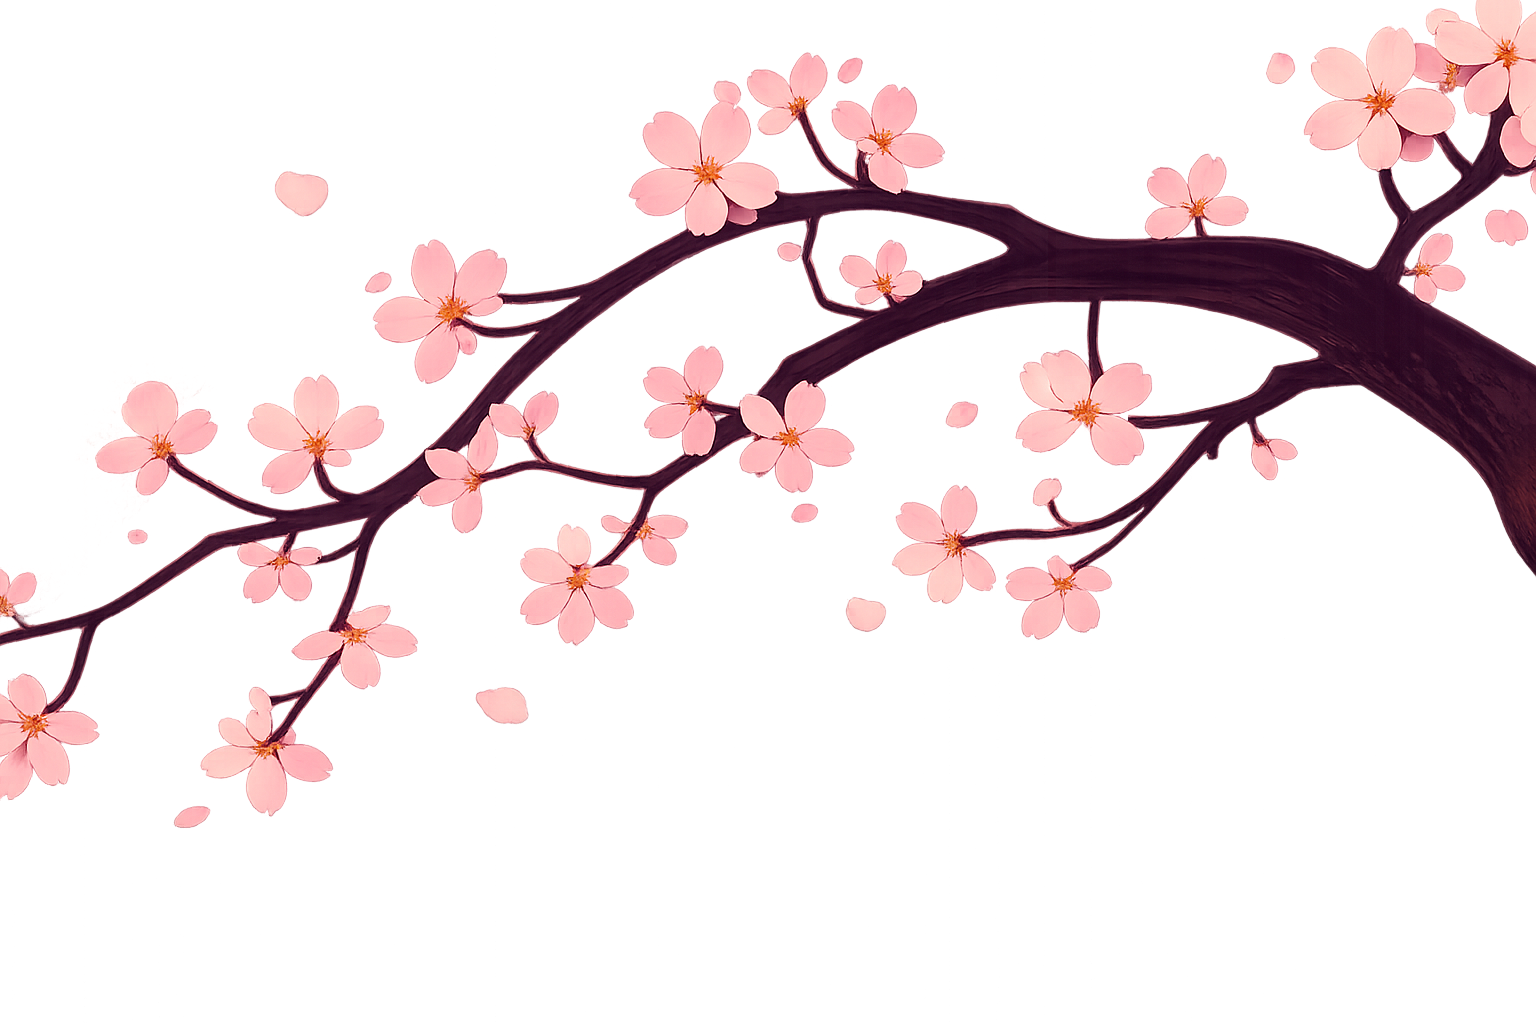
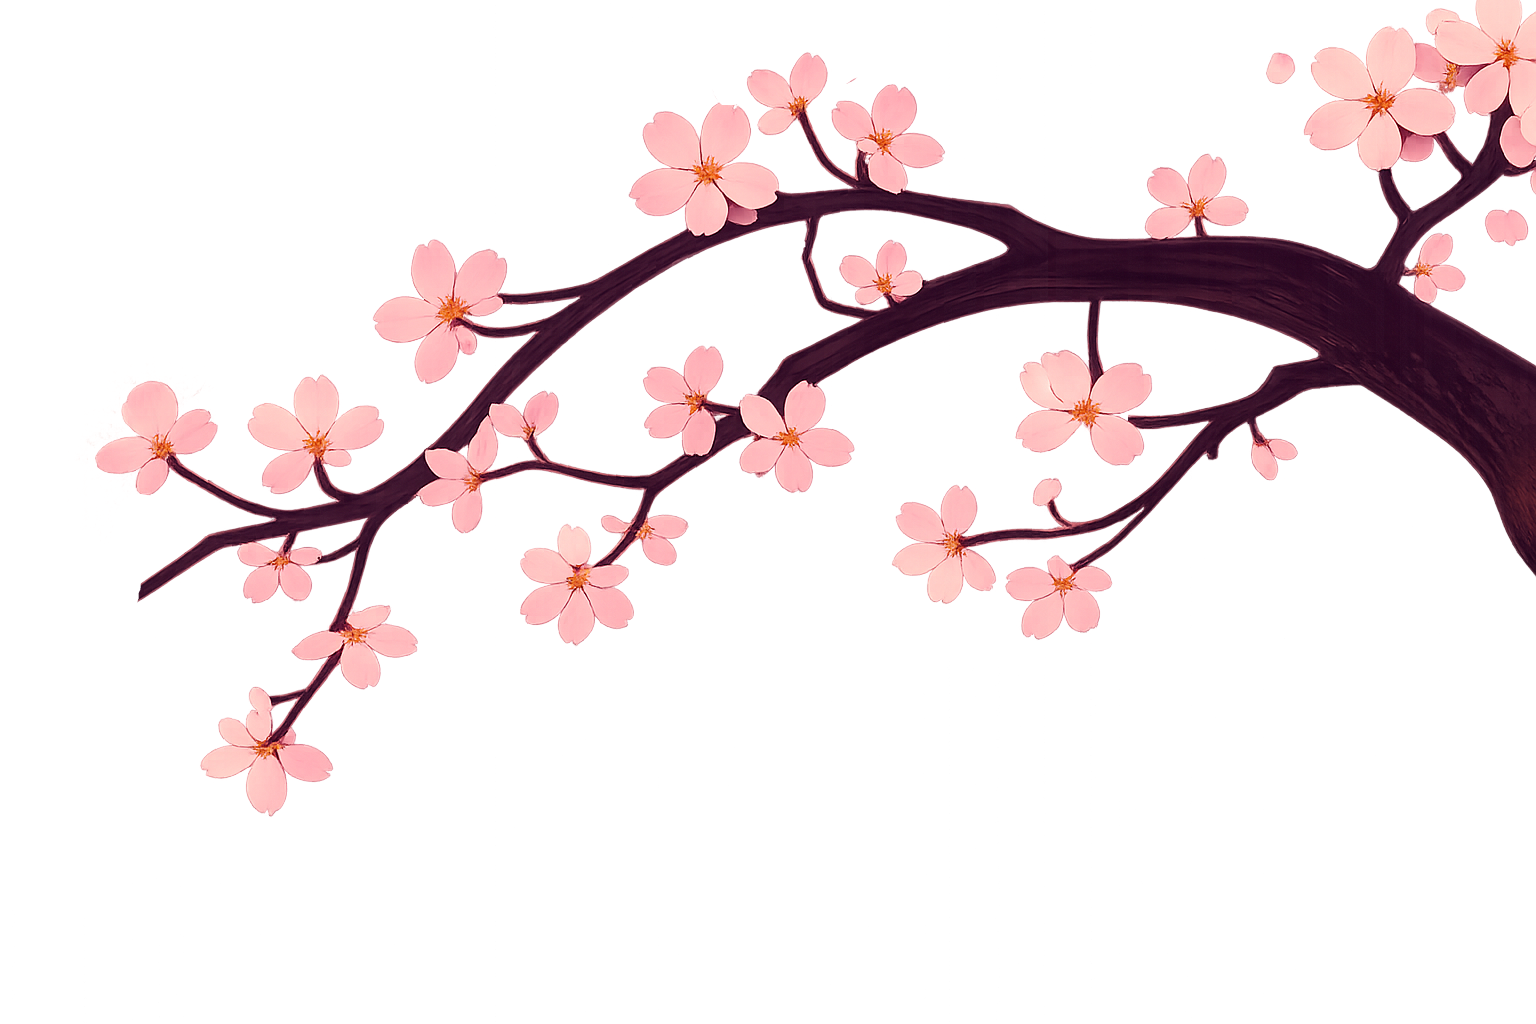
added wind animation

diff --git a/src/pages/hero.tsx b/src/pages/hero.tsx
@@ -4,6 +4,7 @@ import gsap from "gsap";
 import ScrollTrigger from "gsap/ScrollTrigger";
 import { useGSAP } from "@gsap/react";
 import Navbar from "./Navbar/navbar";
+import twentySix from "../assets/26.png";
 
 gsap.registerPlugin(ScrollTrigger);
 
@@ -39,6 +40,7 @@ const Hero = () => {
     });
   }, []);
 
+
   return (
     <>
       <div
@@ -48,6 +50,14 @@ const Hero = () => {
       />
 
       <Navbar ref={navbarRef} />
+      <div className="left">
+
+        <img src={twentySix} alt="26" className="w-96 absolute left-30 bottom-10" />
+        <svg className="absolute left-15 bottom-30 text-white font-bold" width="525" height="92" viewBox="0 0 600 92" fill="none" xmlns="http://www.w3.org/2000/svg">
+          <path d="M20.6082 54.5284V69.8884H51.2002C51.2002 74.2404 51.2002 81.4084 51.2002 85.7604C34.8162 87.1684 18.4322 88.5764 2.04823 89.9844V69.8884H3.84023C3.58423 65.2804 3.32823 60.6724 3.20023 56.0644C2.04823 56.1924 1.02423 56.3204 0.000226736 56.3204V36.2244H2.17623C1.66423 24.3204 1.02423 12.5444 0.384227 0.640442H20.6082V36.2244H49.6642C49.6642 40.5764 49.6642 47.7444 49.6642 52.0964C39.9362 52.8644 30.2082 53.7604 20.6082 54.5284ZM22.1442 0.512444H54.2722C54.2722 4.99244 54.2722 12.0324 54.2722 16.3844C43.5202 17.9204 32.7682 19.3284 22.1442 20.7364V0.512444ZM72.9132 36.6084H110.289C110.289 40.7044 110.289 47.3604 110.289 51.4564C97.8732 52.8644 85.3292 54.1444 72.9132 55.5524V36.6084ZM185.643 0.512444C185.643 4.99244 185.643 12.0324 185.643 16.3844C174.891 17.9204 164.139 19.3284 153.515 20.7364V0.512444H185.643ZM184.747 70.1444C185.515 70.1444 186.283 70.0164 186.923 70.0164C187.307 74.3684 187.691 81.5364 187.947 85.8884C169.259 88.4484 150.443 90.2404 131.499 91.2644L132.011 71.0404C143.915 71.4244 155.819 71.2964 167.723 70.9124C167.723 64.6404 167.595 58.3684 167.339 52.0964C154.923 53.3764 142.507 54.4004 129.963 54.7844L130.347 37.7604C131.243 37.7604 132.139 37.7604 133.035 37.7604C132.011 25.2164 131.499 12.6724 131.499 0.000442505L151.595 1.66444C150.571 13.6964 150.059 25.7284 149.931 37.7604C155.563 37.6324 161.195 37.5044 166.699 37.2484C166.699 36.3524 166.699 35.4564 166.571 34.5604L186.667 35.0724C186.667 35.3284 186.667 35.7124 186.667 35.9684C187.307 35.8404 188.075 35.8404 188.715 35.8404C188.971 39.5524 189.611 45.5684 189.867 49.2804C188.715 49.4084 187.435 49.5364 186.155 49.7924C185.771 56.5764 185.387 63.3604 184.747 70.1444ZM268.923 1.40844V36.2244H270.843C270.843 40.5764 270.843 47.7444 270.843 52.0964C270.203 52.2244 269.563 52.3524 268.923 52.3524V89.9844C264.571 89.9844 257.403 89.9844 253.051 89.9844C252.923 88.7044 252.923 87.5524 252.923 86.4004C238.715 87.5524 224.635 88.8324 210.555 89.9844V69.8884H212.347C211.195 46.8484 210.043 23.6804 209.019 0.640442H229.115V69.8884H252.027C251.771 65.0244 251.643 60.0324 251.387 55.1684C248.827 55.5524 246.267 55.9364 243.707 56.3204V36.2244H250.491C249.851 24.5764 249.339 13.0564 248.827 1.40844H268.923ZM351.863 0.256439L371.959 0.896439L369.143 89.6004C364.663 89.4724 357.623 89.2164 353.271 89.0884C352.887 66.8164 352.503 44.6724 352.247 22.4004C348.535 22.6564 344.823 23.0404 341.111 23.1684C340.855 27.5204 340.471 31.8724 340.343 36.2244C342.519 35.8404 344.695 35.4564 346.871 34.8164C347.767 38.5284 349.303 44.2884 350.199 48.0004C346.871 49.1524 343.543 50.1764 340.087 51.0724C340.087 56.4484 340.215 61.9524 340.471 67.3284C336.119 67.5844 329.079 67.9684 324.727 68.2244C324.087 63.4884 323.703 58.7524 323.319 54.1444C320.503 54.4004 317.559 54.6564 314.615 54.6564L315.767 37.6324C317.943 37.7604 320.247 37.8884 322.551 37.8884C322.423 33.2804 322.295 28.6724 322.423 24.1924C318.583 24.3204 314.871 24.3204 311.159 24.4484V89.9844C306.679 89.9844 299.639 89.9844 295.287 89.9844C293.879 60.1604 292.471 30.3364 291.063 0.640442H311.159V5.12044C315.127 5.37644 319.095 5.50444 323.063 5.50444C323.191 3.84044 323.319 2.04844 323.447 0.384438L343.415 3.20044C343.287 3.96844 343.159 4.86444 343.031 5.63244C345.975 5.63244 349.047 5.50444 351.991 5.50444C351.991 3.71244 351.863 2.04844 351.863 0.256439ZM453.038 0.256439L473.134 0.896439L470.318 89.6004C465.838 89.4724 458.798 89.2164 454.446 89.0884C454.062 66.8164 453.678 44.6724 453.422 22.4004C449.71 22.6564 445.998 23.0404 442.286 23.1684C442.03 27.5204 441.646 31.8724 441.518 36.2244C443.694 35.8404 445.87 35.4564 448.046 34.8164C448.942 38.5284 450.478 44.2884 451.374 48.0004C448.046 49.1524 444.718 50.1764 441.262 51.0724C441.262 56.4484 441.39 61.9524 441.646 67.3284C437.294 67.5844 430.254 67.9684 425.902 68.2244C425.262 63.4884 424.878 58.7524 424.494 54.1444C421.678 54.4004 418.734 54.6564 415.79 54.6564L416.942 37.6324C419.118 37.7604 421.422 37.8884 423.726 37.8884C423.598 33.2804 423.47 28.6724 423.598 24.1924C419.758 24.3204 416.046 24.3204 412.334 24.4484V89.9844C407.854 89.9844 400.814 89.9844 396.462 89.9844C395.054 60.1604 393.646 30.3364 392.238 0.640442H412.334V5.12044C416.302 5.37644 420.27 5.50444 424.238 5.50444C424.366 3.84044 424.494 2.04844 424.622 0.384438L444.59 3.20044C444.462 3.96844 444.334 4.86444 444.206 5.63244C447.15 5.63244 450.222 5.50444 453.166 5.50444C453.166 3.71244 453.038 2.04844 453.038 0.256439ZM522.469 16.3844C520.549 16.7684 518.629 17.0244 516.709 17.2804V70.6564H521.189C521.189 75.0084 521.189 82.1764 521.189 86.5284C519.653 86.7844 518.117 87.0404 516.709 87.2964V89.9844C512.229 89.9844 505.189 89.9844 500.837 89.9844C500.837 89.8564 500.837 89.8564 500.837 89.8564C498.789 90.1124 496.741 90.4964 494.821 90.7524V70.6564H499.813C499.045 53.7604 498.277 36.8644 497.381 19.9684C495.845 20.2244 494.181 20.4804 492.645 20.7364V0.512444H522.469C522.469 4.99244 522.469 12.0324 522.469 16.3844ZM599.828 0.512444C599.828 4.99244 599.828 12.0324 599.828 16.3844C588.948 17.1524 578.068 17.9204 567.188 18.6884H578.964V89.9844C574.484 89.9844 567.444 89.9844 563.092 89.9844C561.684 66.3044 560.276 42.7524 558.868 19.2004C551.828 19.7124 544.788 20.2244 537.876 20.7364V0.512444H599.828Z" fill="white"/>
+          </svg>
+
+      </div>
 
       <div className="min-h-screen bg-cover bg-center bg-no-repeat" style={{ backgroundImage: "url('/background.webp')" }} />
       <div className="min-h-screen bg-cover bg-center bg-no-repeat" style={{ backgroundImage: "url('/background.webp')" }} />

diff --git a/src/pages/Navbar/navbar.css b/src/pages/Navbar/navbar.css
@@ -5,54 +5,38 @@
     top: 0px;
     right: -10px;
     z-index: 3;
+
     transform-origin: 100% 0%;
-    animation: windWobble 6s ease-in-out infinite;
+    animation: branchWind 10s ease-in-out infinite;
 }
+
 
 .lantern {
     position: absolute;
     width: 213px;
     height: 320px;
     z-index: 3;
-    transform-origin: 50% 50%;
+
+    transform-origin: 50% 0%;
+
+    animation:
+        swing 7s cubic-bezier(.4, 0, .2, 1) infinite,
+        flicker 2.5s ease-in-out infinite;
+
     transition: transform 300ms;
-    animation: windWobble 6s ease-in-out infinite;
-    animation: flicker 2000ms ease-in-out infinite forwards;
 }
 
 .lantern:hover {
     transform: scale(1.05);
     filter:
-        drop-shadow(0 0 18px rgba(255, 118, 90, 0.7)) drop-shadow(0 0 35px rgba(255, 135, 70, 0.4));
+        drop-shadow(0 0 18px rgba(255, 118, 90, 0.7))
+        drop-shadow(0 0 35px rgba(255, 135, 70, 0.4));
 }
 
-@keyframes flicker {
-    0% {
-        filter:
-        drop-shadow(0 0 18px rgba(255, 190, 90, 0.2)) drop-shadow(0 0 35px rgba(255, 95, 70, 0.1));
-    }
-    50% {
-        filter:
-        drop-shadow(0 0 18px rgba(255, 134, 90, 0.7)) drop-shadow(0 0 35px rgba(255, 160, 70, 0.4));
-    }
-    100% {
-        filter:
-        drop-shadow(0 0 18px rgba(255, 190, 90, 0.2)) drop-shadow(0 0 35px rgba(255, 160, 70, 0.1));
-    }
-}
-
-/* .lanterns>a>span {
-    text-shadow: 1px 1px 2px #fff;
-    font-family: 'Cinzel', serif;
-    writing-mode: vertical-lr;
-    text-orientation: upright;
-    position: absolute;
-    font-weight: bold;
-    color: #8B0000;
-    font-size: 21px;
-    z-index: 4;
-} */
-
+.l1 { animation-delay: -1s, -0.3s; }
+.l2 { animation-delay: -2.3s, -1s; }
+.l3 { animation-delay: -0.6s, -0.7s; }
+.l4 { animation-delay: -1.7s, -1.2s; }
 
 .s1 {
     top: 390px;
@@ -76,7 +60,7 @@
     right: 400px;
 }
 
-.l3{
+.l3 {
     width: 300px;
     height: 420px;
     top: 175px;
@@ -91,24 +75,57 @@
 }
 
 
-@keyframes windWobble {
+@keyframes branchWind {
+    0%   { transform: rotate(0deg); }
+    30%  { transform: rotate(0.6deg); }
+    60%  { transform: rotate(-0.4deg); }
+    100% { transform: rotate(0deg); }
+}
+
+@keyframes swing {
     0% {
-        transform: translate3d(0, 0, 0) rotate(0deg);
+        transform: rotate(0deg) translateY(0);
     }
 
-    25% {
-        transform: translate3d(0.1%, -0.15%, 0) rotate(0.5deg);
+    20% {
+        transform: rotate(1.2deg) translateY(2px);
     }
 
     50% {
-        transform: translate3d(-0.05%, 0.15%, 0) rotate(-0.25deg);
+        transform: rotate(-1.6deg) translateY(-2px);
     }
 
-    75% {
-        transform: translate3d(0.1%, -0.15%, 0) rotate(0.5deg);
+    80% {
+        transform: rotate(1deg) translateY(1px);
     }
 
     100% {
-        transform: translate3d(0, 0, 0) rotate(0deg);
+        transform: rotate(0deg) translateY(0);
     }
+}
+
+@keyframes flicker {
+    0%, 100% {
+        filter:
+            drop-shadow(0 0 14px rgba(255,160,90,0.3))
+            drop-shadow(0 0 28px rgba(255,120,70,0.2));
+    }
+
+    25% {
+        filter:
+            drop-shadow(0 0 20px rgba(255,140,90,0.8))
+            drop-shadow(0 0 40px rgba(255,160,70,0.45));}
+
+    50% {
+        filter:
+            drop-shadow(0 0 16px rgba(255,170,90,0.5))
+            drop-shadow(0 0 32px rgba(255,140,70,0.3));
+    }
+
+    75% {
+        filter:
+            drop-shadow(0 0 20px rgba(255,140,90,0.8))
+            drop-shadow(0 0 40px rgba(255,160,70,0.45));
+    }
+
 }

diff --git a/src/pages/Navbar/navbar.tsx b/src/pages/Navbar/navbar.tsx
@@ -7,29 +7,29 @@ import lanterns2 from "../../assets/lanternS2.png";
 import "./navbar.css";
 
 const Navbar = forwardRef<HTMLDivElement>((_, ref) => {
-    return (
-        <div ref={ref} className="navbar">
-            <img className="branch" src={branch} alt="Navbar branch" />
+  return (
+    <div ref={ref} className="navbar">
+      <img className="branch" src={branch} alt="branch" />
 
-            <div className="lanterns">
-                <a href="/about">
-                    <img className="lantern l1" src={lanterne} alt="Navbar lantern" />
-                </a>
+      <div className="lanterns">
+        <a href="/about">
+          <img className="lantern l1" src={lanterne} />
+        </a>
 
-                <a href="/events">
-                    <img className="lantern l2" src={lanterna} alt="Navbar lantern" />
-                </a>
+        <a href="/events">
+          <img className="lantern l2" src={lanterna} />
+        </a>
 
-                <a href="/speakers">
-                    <img className="lantern l3" src={lanterns1} alt="Navbar lantern" />
-                </a>
+        <a href="/speakers">
+          <img className="lantern l3" src={lanterns1} />
+        </a>
 
-                <a href="/sponsors">
-                    <img className="lantern l4" src={lanterns2} alt="Navbar lantern" />
-                </a>
-            </div>
-        </div>
-    );
+        <a href="/sponsors">
+          <img className="lantern l4" src={lanterns2} />
+        </a>
+      </div>
+    </div>
+  );
 });
 
 export default Navbar;

diff --git a/index.html b/index.html
@@ -5,6 +5,7 @@
     <link rel="icon" type="image/svg+xml" href="/vite.svg" />
     <meta name="viewport" content="width=device-width, initial-scale=1.0" />
     <title>esummit2026</title>
+    <link href="https://fonts.googleapis.com/css2?family=Yusei+Magic&display=swap" rel="stylesheet">
   </head>
   <body>
     <div id="root"></div>

diff --git a/src/index.css b/src/index.css
@@ -7,3 +7,6 @@
 body {
     overflow-x: hidden;
 }
+.eText {
+    font-family: 'Yusei Magic', sans-serif;
+}
